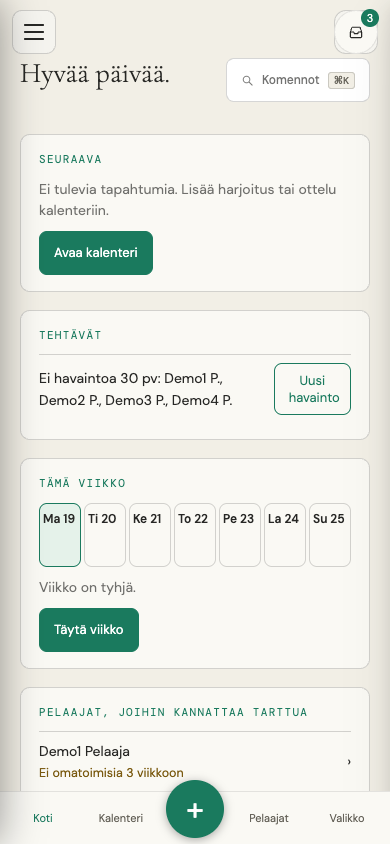
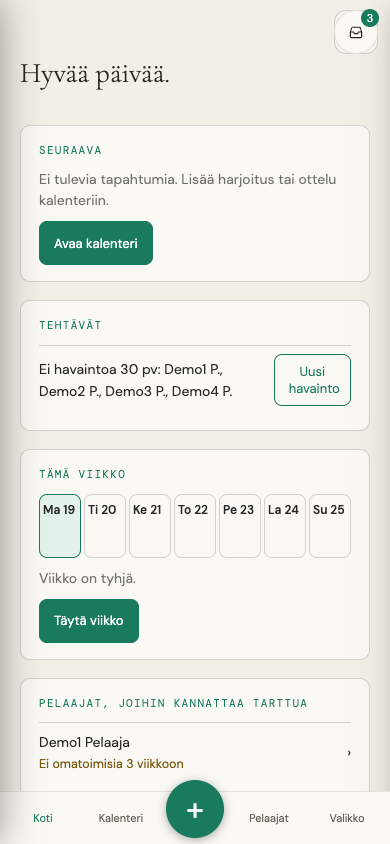
V-KOTI B live-korjaukset: valitsin laitaan, mobiili ilman hampurilaista/Komennot, Esc sulkee havaintomodaalin + fokus, profiilikortti pois, Kodin tyhjä tila (#1029)

diff --git a/tests/v_koti_b_selain.test.js b/tests/v_koti_b_selain.test.js
@@ -9,13 +9,13 @@ const require = createRequire(import.meta.url);
 const JUURI = join(dirname(fileURLToPath(import.meta.url)), '..'), MASTER = readFileSync(join(JUURI, 'TalentMaster_Master_v16.html'), 'utf8');
 const CHROME = [process.env.TM_CHROME_PATH, '/Applications/Google Chrome.app/Contents/MacOS/Google Chrome', '/usr/bin/google-chrome', '/usr/bin/chromium'].filter(Boolean).find((p) => existsSync(p));
 const LIPPU = { 'seurat/demo': { nimi: 'FC Demo', liput: { valmentaja_v2: true } } };
-const KUTSU = (ryhmia) => 'window._mRyLista=' + (ryhmia ? '[{id:"g1",nimi:"MV-ryhmä",pelaajat_id:["p1","p2"],aktiivinen:true}]' : '[]') + ';window.__od=[];openDrill=function(t){window.__od.push(t)};'
+const KUTSU = (ryhmia, oikeaDrill) => 'window._mRyLista=' + (ryhmia ? '[{id:"g1",nimi:"MV-ryhmä",pelaajat_id:["p1","p2"],aktiivinen:true}]' : '[]') + ';window.__od=[];' + (oikeaDrill ? '_initKeyboard();' : 'openDrill=function(t){window.__od.push(t)};')
   + 'TM_VALMENTAJA_NAV.tmNavAsenna({db:_db,seuraId:"demo",t:masterT,ws:function(){return _ws},ryhmia:function(){return _mRyHaeLista().then(function(l){return l.length>0})}}).then(function(on){window.__navOn=on;if(on)setWs(TM_VALMENTAJA_NAV.tmNavReitti(_ws).ws)});'
   + 'TM_VALMENTAJA_NAV.tmNavBadge&&0;window.__badge=function(n){TM_VALMENTAJA_NAV.tmNavBadge(n)};';
 const NAKYMAT = ['koti', 'inbox', 'cal', 'pulse', 'season', 'dev', 'ryhmat', 'testit', 'kuorma'];
 const kaynnista = async (selain, opts, koko) => {
   const sk = await selain.newContext({ viewport: koko }), p = await sk.newPage(); const virheet = []; p.on('pageerror', (e) => virheet.push(e.message));
-  await p.goto('file://' + sivu(MASTER, JUURI, Object.assign({ rooli: 'valmentaja', kutsu: KUTSU(opts.ryhmia), dokit: opts.lippu ? LIPPU : {} }, opts))); await p.waitForSelector('#probe-out', { state: 'attached', timeout: 15000 });
+  await p.goto('file://' + sivu(MASTER, JUURI, Object.assign({ rooli: 'valmentaja', kutsu: (opts.valitsin || '') + KUTSU(opts.ryhmia, opts.oikeaDrill), dokit: opts.lippu ? LIPPU : {} }, opts))); await p.waitForSelector('#probe-out', { state: 'attached', timeout: 15000 });
   await p.waitForFunction(() => window.__navOn !== undefined, null, { timeout: 15000 }); return { sk, p, virheet };
 };
 const aktiivinenNakyma = (p) => p.evaluate(() => ({ ws: _ws, nakyma: (document.querySelector('.ws-view.active') || {}).dataset && document.querySelector('.ws-view.active').dataset.view }));
@@ -33,7 +33,7 @@ describe.skipIf(!(process.env.TM_CHROME_TESTS !== '0' && CHROME))('V-KOTI B · s
     await avaa(); try {
       const { sk, p, virheet } = await kaynnista(selain, { lippu: true, ryhmia: true }, { width: 1280, height: 900 });
       expect(await p.evaluate(() => window.__navOn)).toBe(true); expect(await p.evaluate(() => document.body.classList.contains('nav-v2'))).toBe(true);
-      expect(await p.locator('.wsbar').isVisible()).toBe(false); expect(await p.locator('.sb-nav').isVisible()).toBe(false);
+      expect(await p.locator('.wsbar').isVisible()).toBe(false); expect(await p.locator('.sb-nav').isVisible()).toBe(false);   // ei valitsimia → koko vanha nav piilossa
       const rivit = async () => (await p.locator('#nvSide .nv-item, #nvSide .nv-otsikko').allInnerTexts()).map((x) => x.replace(/\s+/g, ' ').trim());
       const alku = await rivit(); expect(alku.slice(0, 6)).toEqual(['Koti', 'Viestit', 'Kalenteri', 'Joukkue', 'Pelaajat', 'Ryhmät']); expect(alku[6]).toMatch(/^TYÖKALUT \(6\)|^Työkalut \(6\)/i); expect(alku.length).toBe(8);   // + Asetukset; työkalut kiinni
       expect(await p.locator('#nvSide .nv-tyokalut').count()).toBe(0);
@@ -95,4 +95,46 @@ describe.skipIf(!(process.env.TM_CHROME_TESTS !== '0' && CHROME))('V-KOTI B · s
       }
     } finally { await selain.close(); }
   }, 300000);
+  it('LIVE #1 valitsin: seura-/joukkuevalitsin näkyy laidan ylälaidassa (desktop) ja vetolaatikon ylälaidassa (mobiili); joukkueen vaihto päivittää Koti/Kalenteri/Joukkue', async () => {
+    const valitsin = 'window.__r={koti:0,cal:0,pulse:0};var _rk=renderKoti,_rc=renderCal,_rp=renderPulse;renderKoti=function(){window.__r.koti++;return _rk.apply(this,arguments)};renderCal=function(){window.__r.cal++;return _rc.apply(this,arguments)};renderPulse=function(){window.__r.pulse++;return _rp.apply(this,arguments)};'
+      + '_lataaPelaajat=async function(){};_lataaTestitapahtumat=async function(){};_lataaKalenteriTapahtumat=async function(){};document.getElementById("sbSeura").textContent="FC Demo";_rakennaSAJoukkueValitsin("demo",{});';
+    const kokoelmat = { 'seurat/demo/pelaajat': [{ id: 'p1', data: { joukkue: 'Demo U13' } }, { id: 'p5', data: { joukkue: 'Demo U14' } }] };
+    await avaa(); try {
+      for (const koko of [{ width: 1280, height: 900 }, { width: 390, height: 844 }]) {
+        const { sk, p } = await kaynnista(selain, { lippu: true, ryhmia: false, valitsin, kokoelmat }, koko); await p.waitForSelector('#sa-joukkue-valitsin', { state: 'attached' });
+        const mobiili = koko.width < 800; if (mobiili) { await p.locator('#nvMob .nv-mitem').last().click(); await p.waitForTimeout(350); }
+        const sel = p.locator('#sa-joukkue-valitsin'); expect(await sel.isVisible(), 'valitsin näkyy ' + koko.width).toBe(true);
+        const y = (await sel.boundingBox()).y, joukkue = await p.locator('#nvSide [data-nv="joukkue"]').boundingBox(); expect(y).toBeLessThan(joukkue.y);   // laidan ylälaidassa, valikon yläpuolella
+        expect(await p.locator('.sb-seura').isVisible()).toBe(false);   // valitsin nimen tilalle
+        if (process.env.TM_KUVAT === '1') { mkdirSync(join(JUURI, 'docs/ui-kuvat/v-koti-b'), { recursive: true }); await p.screenshot({ path: join(JUURI, `docs/ui-kuvat/v-koti-b/valitsin_${koko.width}_dark.png`) }); }
+        await p.evaluate(() => { window.__r = { koti: 0, cal: 0, pulse: 0 }; }); await sel.selectOption('DEMO U14'); await p.waitForFunction(() => window.__r.koti > 0 && window.__r.cal > 0 && window.__r.pulse > 0, null, { timeout: 8000 });
+        expect(await p.evaluate(() => _joukkue)).toBe('DEMO U14'); await sk.close();
+      }
+    } finally { await selain.close(); }
+  }, 180000);
+  it('LIVE #2 mobiili: ei hampurilaista, ei Komennot ⌘K < 800 px (desktopilla Komennot säilyy); #4 profiilikortti pois joka näkymästä', async () => {
+    await avaa(); try {
+      for (const koko of [{ width: 390, height: 844 }, { width: 1280, height: 900 }]) {
+        const { sk, p } = await kaynnista(selain, { lippu: true, ryhmia: true }, koko); const mob = koko.width < 800;
+        expect(await p.locator('.nav-burger').isVisible()).toBe(false); expect(await p.locator('.cmd-btn').isVisible()).toBe(!mob);
+        await p.evaluate(() => { window._valmentajaData = { etunimi: 'Rasmus', sukunimi: 'B', rooli: 'vp' }; });
+        for (const ws of NAKYMAT) { await p.evaluate((w) => { setWs(w); renderCoachSelfCard(); }, ws); expect(await p.locator('#coachSelfCard').isVisible(), ws + ' ' + koko.width).toBe(false); }
+        await sk.close();
+      }
+      const { sk, p } = await kaynnista(selain, { lippu: false, ryhmia: false }, { width: 390, height: 844 }); expect(await p.locator('.nav-burger').isVisible()).toBe(true); await sk.close();   // lippu pois → vanha ennallaan
+    } finally { await selain.close(); }
+  }, 180000);
+  it('LIVE #3 Esc sulkee havaintomodaalin (valinta ja upotettu pikakortti) ja fokus palaa + Havainto -painikkeeseen (desktop + mobiili)', async () => {
+    await avaa(); try {
+      for (const koko of [{ width: 1280, height: 900 }, { width: 390, height: 844 }]) {
+        const { sk, p } = await kaynnista(selain, { lippu: true, ryhmia: false, oikeaDrill: true }, koko), plus = koko.width < 800 ? '#nvMob .nv-mplus' : '#nvPlus .nv-plus';
+        await p.locator(plus).click(); await p.waitForSelector('#_tmPhValinta'); await p.keyboard.press('Escape'); expect(await p.locator('#_tmPhValinta').count()).toBe(0);
+        expect(await p.evaluate((s) => document.activeElement === document.querySelector(s), plus)).toBe(true);
+        await p.evaluate(() => _avaaPikakorttiUpotettu('')); await p.waitForSelector('#_pkModal'); expect(await p.evaluate(() => typeof window._pkSulje)).toBe('function'); await p.locator(plus).focus().catch(() => {});
+        await p.evaluate(() => document.activeElement && document.activeElement.blur()); await p.keyboard.press('Escape'); await p.waitForFunction(() => !document.getElementById('_pkModal')); expect(await p.evaluate((s) => document.activeElement === document.querySelector(s), plus)).toBe(true);
+        await p.evaluate(() => document.dispatchEvent(new KeyboardEvent('keydown', { key: 'Escape' }))); expect(await p.locator('#_pkModal, #_tmPhValinta').count()).toBe(0);   // ei modaalia: Esc ei riko mitään
+        await sk.close();
+      }
+    } finally { await selain.close(); }
+  }, 180000);
 });

diff --git a/lib/tm_valmentaja_nav.js b/lib/tm_valmentaja_nav.js
@@ -71,14 +71,14 @@
     }).join('');
   }
 
-  var CSS = '.nav-v2 .sb-nav,.nav-v2 .wsbar,.nav-v2 #mobTabbar{display:none!important}.nav-v2 .nv{display:flex;flex-direction:column;gap:2px;padding:6px 8px}'
+  var CSS = '.nav-v2 .wsbar,.nav-v2 #mobTabbar,.nav-v2 #coachSelfCard{display:none!important}.nav-v2 .sb-nav>:not(select){display:none!important}.nav-v2 .sb-nav:not(:has(select)){display:none!important}.nav-v2 .sb-nav{flex:0 0 auto;padding-bottom:0}.nav-v2 .sidebar:has(.sb-nav select) .sb-seura{display:none}.nav-v2 .nv{display:flex;flex-direction:column;gap:2px;padding:6px 8px}'
     + '.nv-item{display:flex;align-items:center;gap:10px;padding:9px 12px;border-radius:8px;color:var(--ink2);font-size:14px;cursor:pointer}.nv-item:hover{background:var(--card);color:var(--ink)}.nv-item.active{background:var(--teal-bg,var(--teal-dim));color:var(--teal)}.nv-item svg{opacity:.7;flex-shrink:0}'
     + '.nv-jako{height:1px;background:var(--line,var(--border));margin:8px 4px}.nv-otsikko{display:flex;justify-content:space-between;align-items:center;padding:8px 12px;color:var(--ink3);font-size:12px;letter-spacing:.08em;text-transform:uppercase;cursor:pointer}.nv-otsikko.auki .nv-nuoli{transform:rotate(90deg)}.nv-nuoli{display:inline-block;transition:transform .15s}'
     + '.nv-tyokalut .nv-item{padding-left:22px}.nv-badge{margin-left:auto;min-width:18px;height:18px;padding:0 5px;border-radius:9px;background:var(--teal);color:var(--on-accent,var(--bg));font-size:11px;display:inline-flex;align-items:center;justify-content:center}'
     + '.nv-valilehdet{display:flex;gap:6px;margin:0 0 14px;border-bottom:1px solid var(--line,var(--border))}.nv-v{background:none;border:0;border-bottom:2px solid transparent;color:var(--ink3);font-size:14px;padding:8px 12px;cursor:pointer}.nv-v.on{color:var(--ink);border-bottom-color:var(--teal)}'
     + '.nv-plus{background:var(--teal);color:var(--on-accent,var(--bg));border:0;border-radius:999px;padding:9px 18px;font-size:14px;font-weight:600;cursor:pointer;margin-right:10px}.h-top{align-items:center}.nv-hosts-plus{display:flex;align-items:center;margin-left:auto}'
     + '.nv-mob,.nv-mviesti{display:none}.nv-ryhma{background:var(--card);border:1px solid var(--line,var(--border));border-radius:10px;padding:14px 16px;margin-bottom:12px}.nv-ryhma-nimi{font-size:16px;color:var(--ink)}.nv-ryhma-meta,.nv-ryhma-tyhja{font-size:13px;color:var(--ink2);margin:2px 0 8px}.nv-chips{display:flex;flex-wrap:wrap;gap:6px}.nv-chip{background:transparent;border:1px solid var(--line,var(--border));color:var(--ink);border-radius:999px;padding:5px 12px;font-size:13px;cursor:pointer}'
-    + '@media (max-width:799px){.nav-v2 .nv-desk{display:none}.nav-v2 .nav-burger{display:flex}.nav-v2 .sidebar{display:flex;position:fixed;inset:0 auto 0 0;width:264px;max-width:84vw;z-index:200;transform:translateX(-100%);transition:transform .25s}.nav-v2.nav-drawer-open .sidebar{transform:translateX(0)}.nav-v2.nav-drawer-open .sb-backdrop{display:block;position:fixed;inset:0;background:rgba(0,0,0,.45);z-index:199}'
+    + '@media (max-width:799px){.nav-v2 .sb-bot{display:flex;flex-wrap:wrap;align-items:center;gap:4px 8px}.nav-v2 .nv-desk{display:none}.nav-v2 .nav-burger,.nav-v2 .cmd-btn{display:none!important}.nav-v2 .sidebar{display:flex;position:fixed;inset:0 auto 0 0;width:264px;max-width:84vw;z-index:200;transform:translateX(-100%);transition:transform .25s}.nav-v2.nav-drawer-open .sidebar{transform:translateX(0)}.nav-v2.nav-drawer-open .sb-backdrop{display:block;position:fixed;inset:0;background:rgba(0,0,0,.45);z-index:199}'
     + '.nav-v2 .nv-plus{display:none}.nav-v2 .main{padding-top:58px;padding-bottom:84px}.nav-v2 .nv-mob{display:flex;position:fixed;left:0;right:0;bottom:0;z-index:150;background:var(--bg2);border-top:.5px solid var(--line,var(--border));padding:4px 4px calc(4px + env(safe-area-inset-bottom,0px));align-items:flex-end}'
     + '.nv-mitem{flex:1;display:flex;flex-direction:column;align-items:center;justify-content:center;min-height:52px;background:none;border:0;color:var(--ink3);cursor:pointer;font-size:11px}.nv-mitem.active{color:var(--teal)}.nv-mplus{flex:0 0 58px;width:58px;height:58px;margin:-18px 6px 2px;border-radius:50%;background:var(--teal);color:var(--on-accent,var(--bg));border:0;font-size:32px;line-height:1;cursor:pointer;box-shadow:0 2px 10px rgba(0,0,0,.35)}'
     + '.nav-v2 .nv-mviesti{display:inline-flex;position:fixed;top:10px;right:12px;z-index:160;width:44px;height:44px;align-items:center;justify-content:center;background:var(--bg2);border:1px solid var(--line,var(--border));border-radius:50%;color:var(--ink)}.nv-mviesti .nv-badge{position:absolute;top:-2px;right:-2px;margin:0}}';
@@ -100,6 +100,20 @@
     if (htop) { _aseta(d, 'nvPlus', 'nv-hosts-plus', htop, htop.lastElementChild, h.plus); }
     _aseta(d, 'nvMob', 'nv-mob', d.body, null, h.mobiili); _aseta(d, 'nvViesti', '', d.body, null, h.viesti);
   }
+  /* V-KOTI B live #3: Esc sulkee havaintomodaalin (valinta + upotettu pikakortti; pikakentät päivittyvät window._pkSulje:n kautta) ja fokus palaa "+ Havainto" -painikkeeseen. → true jos jotain suljettiin. */
+  function tmNavPalautaFokus(doc) {
+    doc = doc || (tila && tila.doc) || (typeof document !== 'undefined' ? document : null); if (!doc) return false;
+    var nap = doc.querySelectorAll('.nv-plus, .nv-mplus');
+    for (var i = 0; i < nap.length; i++) { if (nap[i].offsetParent !== null || (nap[i].getClientRects && nap[i].getClientRects().length)) { nap[i].focus(); return true; } }
+    return false;
+  }
+  function tmNavHavaintoEsc(doc, win) {
+    doc = doc || (typeof document !== 'undefined' ? document : null); if (!doc) return false;
+    var pk = doc.getElementById('_pkModal'), v = doc.getElementById('_tmPhValinta'); if (!pk && !v) return false;
+    if (pk) { if (win && typeof win._pkSulje === 'function') win._pkSulje(); else pk.remove(); }
+    if (v && v.parentNode) v.parentNode.removeChild(v);
+    if (tila) tmNavPalautaFokus(doc); return true;
+  }
   function tmNavTyokalut() { if (!tila) return; tila.auki = !tila.auki; _kirj(AVAIN, tila.auki ? '1' : '0'); tmNavPiirra(); }
   function tmNavBadge(n) { if (!tila) return; tila.badge = +n || 0; tmNavPiirra(); }
   function tmNavAsenna(o) {
@@ -116,6 +130,6 @@
     });
   }
   function _tyhjenna() { tila = null; }
-  var API = { tmNavLippu: tmNavLippu, tmNavMalli: tmNavMalli, tmNavHTML: tmNavHTML, tmNavReitti: tmNavReitti, tmRyhmatHTML: tmRyhmatHTML, tmNavCSS: function () { return CSS; }, tmNavAsenna: tmNavAsenna, tmNavPiirra: tmNavPiirra, tmNavTyokalut: tmNavTyokalut, tmNavBadge: tmNavBadge, TOIM: TOIM, REITIT: REITIT, _tyhjenna: _tyhjenna };
+  var API = { tmNavLippu: tmNavLippu, tmNavMalli: tmNavMalli, tmNavHTML: tmNavHTML, tmNavReitti: tmNavReitti, tmRyhmatHTML: tmRyhmatHTML, tmNavCSS: function () { return CSS; }, tmNavAsenna: tmNavAsenna, tmNavPiirra: tmNavPiirra, tmNavHavaintoEsc: tmNavHavaintoEsc, tmNavPalautaFokus: tmNavPalautaFokus, tmNavTyokalut: tmNavTyokalut, tmNavBadge: tmNavBadge, TOIM: TOIM, REITIT: REITIT, _tyhjenna: _tyhjenna };
   if (typeof module !== 'undefined' && module.exports) module.exports = API; else if (root) root.TM_VALMENTAJA_NAV = API;
 })(typeof window !== 'undefined' ? window : null);

diff --git a/tests/v_koti_b_nav.test.js b/tests/v_koti_b_nav.test.js
@@ -89,10 +89,39 @@ describe('kuoren kytkentä (Master)', () => {
     expect(MASTER).toContain('window.TM_VALMENTAJA_NAV.tmNavAsenna('); expect(MASTER).toContain('window.TM_VALMENTAJA_NAV.tmNavBadge(unseenN)'); expect(MASTER).toContain('async function renderRyhmat()');
   });
   it('vanha navigaatio säilyy koodissa (wsbar, sb-nav, tabbar) — lippu piilottaa vain CSS:llä', () => {
-    ['class="wsbar"', 'class="sb-nav"', 'id="mobTabbar"'].forEach((s) => expect(MASTER).toContain(s)); expect(N.tmNavCSS()).toMatch(/\.nav-v2 \.sb-nav,\.nav-v2 \.wsbar,\.nav-v2 #mobTabbar\{display:none!important\}/);
+    ['class="wsbar"', 'class="sb-nav"', 'id="mobTabbar"'].forEach((s) => expect(MASTER).toContain(s)); expect(N.tmNavCSS()).toMatch(/\.nav-v2 \.wsbar,\.nav-v2 #mobTabbar,\.nav-v2 #coachSelfCard\{display:none!important\}/); expect(N.tmNavCSS()).toContain('.nav-v2 .sb-nav>:not(select){display:none!important}');
   });
   it('kasvukatto: Master ei kasva yli kattonsa; lisäys kuoreen pieni (≤ 15 riviä main-haaraan nähden)', () => {
     const fx = JSON.parse(fs.readFileSync(path.join(__dirname, 'fixtures/kuoret_kasvukatto.json'), 'utf8')), n = (MASTER.match(/\n/g) || []).length; expect(n).toBeLessThanOrEqual(fx['TalentMaster_Master_v16.html'].katto);
     expect(n).toBeLessThanOrEqual(11837 + 15);
+  });
+});
+
+describe('live-tarkistus (FC Demo): valitsin, mobiili, Esc, profiilikortti, Kodin tyhjä tila', () => {
+  const css = N.tmNavCSS(), K = require('../lib/tm_valmentaja_koti.js'), KN = require('../lib/tm_valmentaja_koti_nakyma.js');
+  it('#1 sb-nav ei piiloudu kokonaan: vain sen muut lapset (valitsimet jäävät näkyviin); seuranimi piiloon kun valitsin on', () => {
+    expect(css).not.toMatch(/\.nav-v2 \.sb-nav,/); expect(css).toContain('.nav-v2 .sb-nav>:not(select){display:none!important}'); expect(css).toContain('.nav-v2 .sb-nav:not(:has(select)){display:none!important}'); expect(css).toContain('.sb-nav select) .sb-seura{display:none}');
+  });
+  it('#2 mobiili: hampurilainen ja Komennot ⌘K piiloon < 800 px (ei leveällä)', () => {
+    const mq = css.slice(css.indexOf('@media (max-width:799px)')); expect(mq).toContain('.nav-v2 .nav-burger,.nav-v2 .cmd-btn{display:none!important}'); expect(css.slice(0, css.indexOf('@media'))).not.toContain('.cmd-btn');
+  });
+  it('#4 profiilikortti piiloon kaikista näkymistä lipun ollessa päällä', () => { expect(css).toContain('.nav-v2 #coachSelfCard{display:none!important}'); });
+  it('#3 tmNavHavaintoEsc: sulkee upotetun pikakortin (window._pkSulje) ja valintamodaalin, palauttaa true; ei modaalia → false; fokus palaa + Havainto -painikkeeseen', () => {
+    const poistettu = []; let fokus = 0, pkSulje = 0, valinta = { parentNode: { removeChild: (x) => poistettu.push('valinta') } }, pk = { remove: () => poistettu.push('pk') };
+    const nap = { offsetParent: {}, focus: () => { fokus++; } }, doc = { getElementById: (id) => ({ _pkModal: pk, _tmPhValinta: valinta }[id] || null), querySelectorAll: () => [nap] };
+    expect(N.tmNavHavaintoEsc(doc, { _pkSulje: () => { pkSulje++; } })).toBe(true); expect(pkSulje).toBe(1); expect(poistettu).toEqual(['valinta']);
+    expect(N.tmNavHavaintoEsc({ getElementById: () => null }, {})).toBe(false);
+    expect(N.tmNavHavaintoEsc({ getElementById: (id) => (id === '_pkModal' ? pk : null) }, {})).toBe(true); expect(poistettu).toEqual(['valinta', 'pk']);   // ilman _pkSulje:a poistetaan suoraan
+    expect(N.tmNavPalautaFokus(doc)).toBe(true); expect(fokus).toBe(1); expect(N.tmNavPalautaFokus({ querySelectorAll: () => [{ offsetParent: null, getClientRects: () => [], focus: () => { fokus++; } }] })).toBe(false);
+  });
+  it('#3 Master kytkee: Esc-haara kutsuu tmNavHavaintoEsc ennen muuta sulkua; upotettu pikakortti paljastaa window._pkSulje; iframen Esc ohjataan samaan', () => {
+    expect(MASTER).toMatch(/if \(e\.key === 'Escape'\) \{\n\s+if \(window\.TM_VALMENTAJA_NAV && window\.TM_VALMENTAJA_NAV\.tmNavHavaintoEsc\(document, window\)\) return;/); expect(MASTER).toContain('window._pkSulje = _pkClose;'); expect(MASTER).toMatch(/w\.document\.addEventListener\('keydown'[^\n]*tmNavHavaintoEsc/);
+  });
+  it('#5 Kodin tyhjä tila: pelaajia → EI "lisää pelaajat"; ei pelaajia → kolme askelta; järjestys Täytä viikko → Uusi havainto', () => {
+    const PEL = [{ id: 'p1', nimi: 'Aatu Aalto' }], C = { t: (x) => x, on: () => 'x()' };
+    const kaksi = KN.tmKotiHTML(K.tmKotiMalli({ uusi: true, joukkue: { id: 'j', nimi: 'J' }, pelaajat: PEL, tapahtumat: [], nyt: Date.UTC(2026, 9, 14) }), C);
+    expect(kaksi).toContain('Aloita kahdella askeleella: täytä viikon harjoitukset kalenteriin ja kirjaa ensimmäinen havainto.'); expect(kaksi).not.toMatch(/lisää pelaajat/i); expect(kaksi.indexOf('Täytä viikko')).toBeGreaterThan(0); expect(kaksi.indexOf('Täytä viikko')).toBeLessThan(kaksi.indexOf('Uusi havainto'));
+    const kolme = KN.tmKotiHTML(K.tmKotiMalli({ uusi: true, joukkue: { id: 'j', nimi: 'J' }, pelaajat: [], tapahtumat: [], nyt: Date.UTC(2026, 9, 14) }), C);
+    expect(kolme).toContain('Aloita kolmella askeleella: lisää pelaajat joukkueeseen'); expect(kolme.indexOf('Täytä viikko')).toBeLessThan(kolme.indexOf('Uusi havainto'));
   });
 });

diff --git a/lib/tm_valmentaja_koti_nakyma.js b/lib/tm_valmentaja_koti_nakyma.js
@@ -50,7 +50,7 @@
       + (pk.length ? '<div class="vk-palkit">' + pk.map(function (x) { return '<div class="vk-pk" title="' + _e(x.vk) + '"><i class="m" style="height:' + Math.round(100 * x.omatoimi / maks) + '%"></i><i class="o" style="height:' + Math.round(100 * x.ohjattu / maks) + '%"></i></div>'; }).join('') + '</div>' : '')
       + '<div class="vk-rivi">' + _nappi({ teksti: 'Avaa Pulssi', toiminto: 'pulssi' }, C, false) + '</div></div>';
     var viestit = m.viestit.map(function (v) { return '<div class="vk-teht"><span>' + _e((v.kuka ? v.kuka + ': ' : '') + String(v.teksti || '').slice(0, 90)) + '</span>' + _nappi({ teksti: 'Avaa', toiminto: 'viestit', arg: v.id }, C, false) + '</div>'; });
-    if (m.tyhja === 'uusi') return '<div class="vk"><div class="vk-kortti"><div class="vk-eb">' + _e(t('Aloita tästä')) + '</div><div class="vk-iso">' + _e(t('Tervetuloa')) + '</div><div class="vk-tyhja">' + _e(t('Aloita kolmella askeleella: lisää pelaajat joukkueeseen, täytä viikon harjoitukset kalenteriin ja kirjaa ensimmäinen havainto.')) + '</div><div class="vk-rivi">'
+    if (m.tyhja === 'uusi') return '<div class="vk"><div class="vk-kortti"><div class="vk-eb">' + _e(t('Aloita tästä')) + '</div><div class="vk-iso">' + _e(t('Tervetuloa')) + '</div><div class="vk-tyhja">' + _e(t(m.pelaajia ? 'Aloita kahdella askeleella: täytä viikon harjoitukset kalenteriin ja kirjaa ensimmäinen havainto.' : 'Aloita kolmella askeleella: lisää pelaajat joukkueeseen, täytä viikon harjoitukset kalenteriin ja kirjaa ensimmäinen havainto.')) + '</div><div class="vk-rivi">'
       + _nappi({ teksti: 'Täytä viikko', toiminto: 'tayta' }, C, true) + _nappi({ teksti: 'Uusi havainto', toiminto: 'havainto' }, C, false) + '</div></div></div>';
     return '<div class="vk">' + _seuraava(m.seuraava, C) + _tehtavaLista(teht, lisa, C) + _viikko(m.viikko, C) + _lista('Pelaajat, joihin kannattaa tarttua', nost, C) + syke + _lista('Lukemattomat viestit', viestit, C) + '</div>';
   }

diff --git a/TalentMaster_Master_v16.html b/TalentMaster_Master_v16.html
@@ -11552,7 +11552,7 @@ function _avaaPikakorttiUpotettu(pid) {
   modal.id = '_pkModal';
   modal.style.cssText = 'position:fixed;inset:0;background:rgba(0,0,0,.82);z-index:9600;display:flex;align-items:center;justify-content:center;padding:12px';
   // Sulku (× / tausta / tm:adar:saved) → päivitä pikakentät myös manuaalisesti (fallback jos pikakortti ei postita viestiä).
-  var _pkClose = function () { document.getElementById('_pkModal')?.remove(); _pikakorttiRefresh(pid); };
+  var _pkClose = function () { document.getElementById('_pkModal')?.remove(); _pikakorttiRefresh(pid); }; window._pkSulje = _pkClose;
   modal.addEventListener('click', function (e) { if (e.target === modal) _pkClose(); });
   var box = document.createElement('div');
   box.style.cssText = 'background:var(--card);border:.5px solid var(--border);border-radius:12px;width:520px;max-width:100%;height:88vh;overflow:hidden;display:flex;flex-direction:column';
@@ -11584,6 +11584,7 @@ function _avaaPikakorttiUpotettu(pid) {
            Rules tekee saman päätöksen samasta lähteestä. Ks. window._tmClaimRooli yllä. */
         w._tmRooli = window._tmClaimRooli || null;   // Vaihe B: arvioijan rooli havaintoon (tekija_rooli)
         w._tmEmbedded = true;
+        w.document.addEventListener('keydown', function (ev) { if (ev.key === 'Escape' && window.TM_VALMENTAJA_NAV) window.TM_VALMENTAJA_NAV.tmNavHavaintoEsc(document, window); });   // fokus iframessa → Esc sulkee silti
       }
     } catch (e) { console.warn('[pikakortti-inject]', e && e.message); }
   };
@@ -11802,6 +11803,7 @@ function _initKeyboard() {
     }
     // ESC → sulje kaikki
     if (e.key === 'Escape') {
+      if (window.TM_VALMENTAJA_NAV && window.TM_VALMENTAJA_NAV.tmNavHavaintoEsc(document, window)) return;   // V-KOTI B: havaintomodaali + fokus takaisin + Havainto
       closeDrill();
       closeCmd();
       return;

diff --git a/lib/tm_valmentaja_koti.js b/lib/tm_valmentaja_koti.js
@@ -116,7 +116,7 @@
     var evs = (a.tapahtumat || []).filter(function (e) { return _aktiivinen(e) && _omalle(e, a.joukkue); }), viestit = (a.viestit || []).slice();
     var lukemattomat = viestit.filter(function (m) { return !m.luettu; }).sort(function (x, y) { return (y.aika || 0) - (x.aika || 0); }).slice(0, 3);
     var tehtKaikki = _tehtavat(evs, a, viestit);
-    var m = { seuraava: _seuraava(evs, a), viikko: _viikko(evs, a), tehtavat: tehtKaikki.slice(0, 3), lisaTehtavat: tehtKaikki.slice(3), nostot: _nostot(a), syke: _syke(a), viestit: lukemattomat, tyhja: null };
+    var m = { seuraava: _seuraava(evs, a), viikko: _viikko(evs, a), tehtavat: tehtKaikki.slice(0, 3), lisaTehtavat: tehtKaikki.slice(3), nostot: _nostot(a), syke: _syke(a), viestit: lukemattomat, pelaajia: (a.pelaajat || []).length, tyhja: null };
     if (a.uusi || (!m.seuraava && m.viikko.tyhja && !(a.pelaajat || []).length)) m.tyhja = 'uusi';
     return m;
   }
